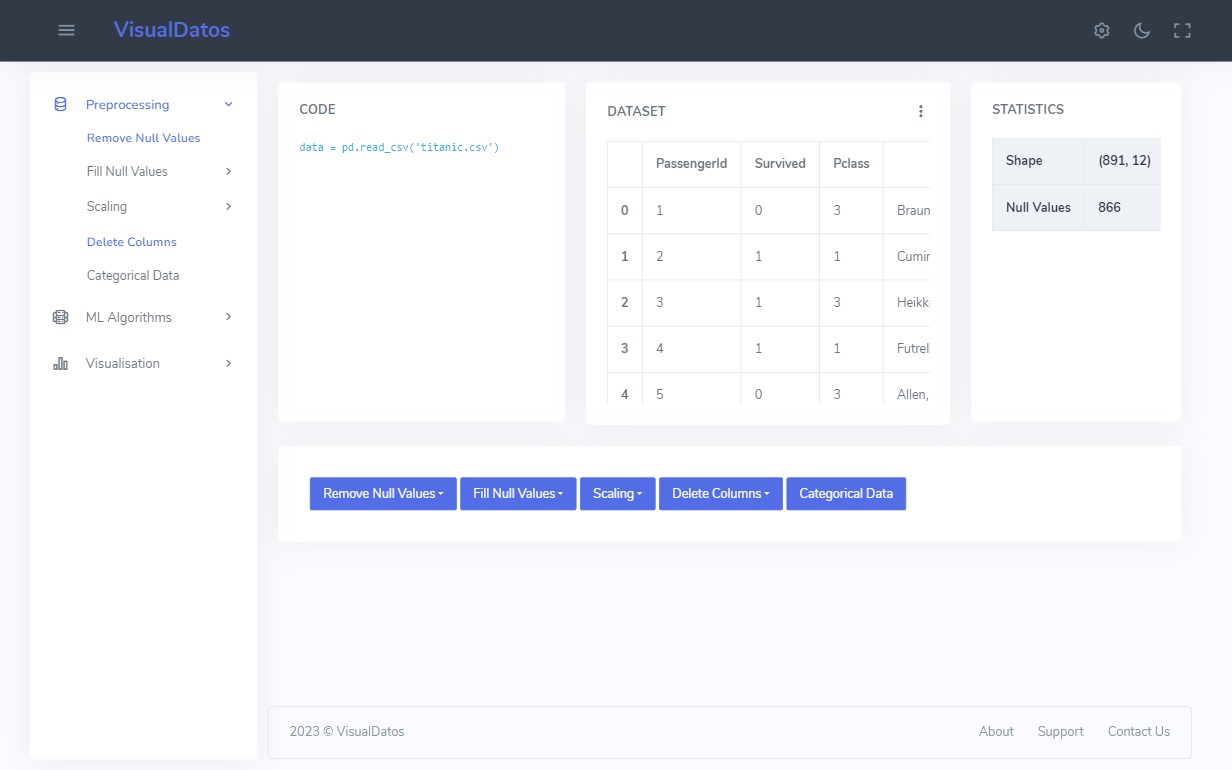
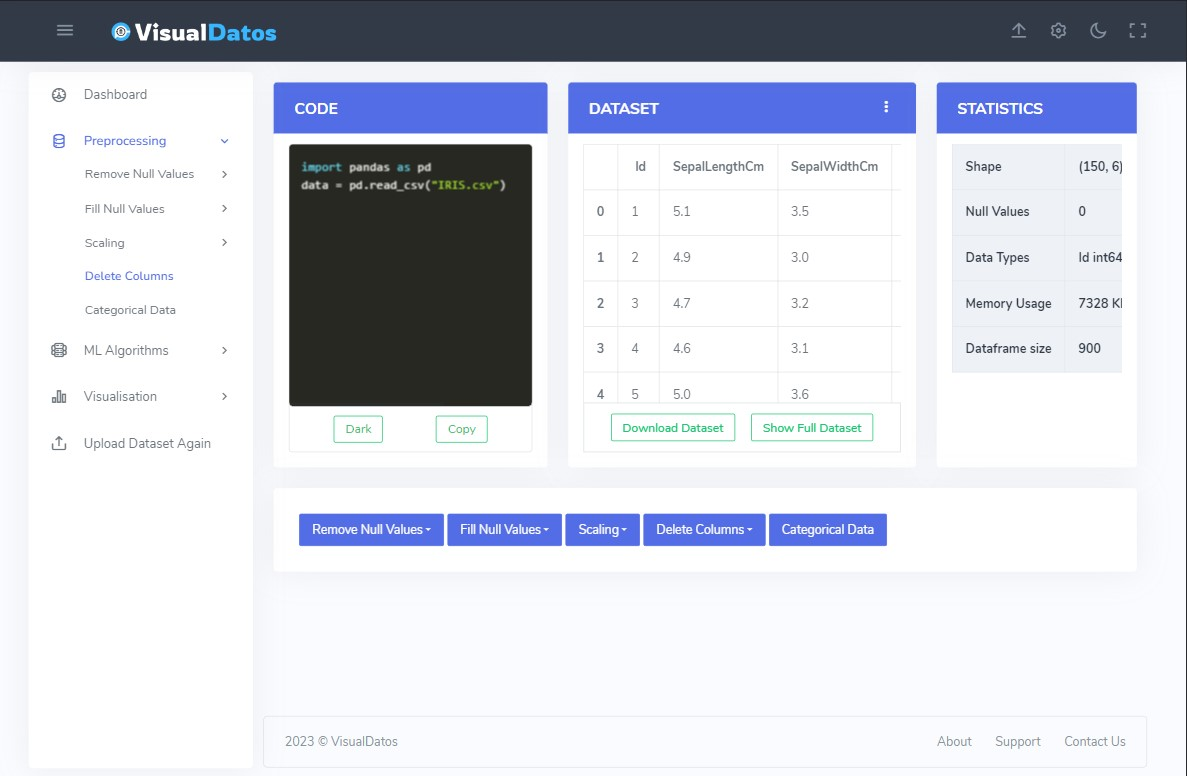
fixed copy button bug

diff --git a/VData/templates/base.html b/VData/templates/base.html
@@ -20,7 +20,7 @@
 
 
         <!-- Theme Config Js -->
-        <script src="{% static 'assets/js/hyper-config.js' %}"></script>
+        <script src="{% static 'assets/js/config.js' %}"></script>
 
         
 
@@ -29,6 +29,7 @@
 
         <!-- Icons css -->
         <link href="{% static 'assets/css/icons.min.css' %}" rel="stylesheet" type="text/css" />
+        <!-- <link href="{% static 'css/cursor.css' %}" rel="stylesheet" type="text/css" /> -->
 
 
         <!-- code highlight css -->
@@ -50,6 +51,12 @@
             </div>
         </div>
         <!-- End Preloader-->
+         <!--  Cursor -->
+  {% comment %} <div class="cursor-dot-outline">
+</div>
+<div class="cursor-dot">
+</div> {% endcomment %}
+<!-- Cursor ends -->
 
 
         <!-- Begin page -->
@@ -348,7 +355,7 @@
                                 <!-- Personal-Information -->
                                 <div class="card">
                                     <div class="d-flex card-header justify-content-between align-items-center mb-2" style="background-color: #536de6;
-                                    color: white;
+                                    color: white; padding-top:12px; padding-bottom:12px;
                                 ">
                                         <h4 class="text-bold mb-1">
                                             CODE
@@ -362,8 +369,7 @@
                                                 <!-- <button class="btn-copy-clipboard" data-clipboard-action="copy">
                                                     Copy
                                                 </button> -->
-                                                <pre class="mb-0 html escape" style="height: 304px; border-bottom: 1px solid var(--ct-gray-300);">
-<code class="language-python">{{file_content | safe}}</code>
+                                                <pre class="mb-0 html escape" style="height: 304px; border-bottom: 1px solid var(--ct-gray-300);"><code class="language-python">{{file_content | safe}}</code>
                                                     </pre>
     
                                                 <!-- end highlight-->
@@ -391,7 +397,6 @@
                                         <!-- end tab-content-->
                                     </div>
                                 </div>  
-                                <!-- Personal-Information -->
 
                              
 
@@ -404,7 +409,7 @@
                         <div class="col-lg-5">
                             <div class="card">
                                 <div class="d-flex card-header justify-content-between align-items-center mb-2" style="background-color: #536de6;
-                                color: white;
+                                color: white; padding-top:12px; padding-bottom:12px;
                             ">
                                     <h4 class="text-bold mb-1">
                                         DATASET
@@ -440,7 +445,7 @@
                         <div class="col-lg-3">
                             <div class="card">
                                 <div class="d-flex card-header justify-content-between align-items-center mb-2" style="background-color: #536de6;
-                                color: white;
+                                color: white; padding-top:12px; padding-bottom:12px;
                             ">
                                     <h4 class="text-bold mb-1">
                                         STATISTICS
@@ -1115,6 +1120,13 @@
         <!-- App js -->
         <script src="{% static 'assets/js/app.min.js' %}"></script>
 
+        <!-- Code Highlight js -->
+        <script src="{% static 'assets/vendor/clipboard/clipboard.min.js' %}"></script>
+        <script src="{% static 'assets/js/syntax.js' %}"></script>
+
+
+        <!-- <script src="{% static 'js/cursor.js' %}"></script> -->
+
 
 
         <script>
@@ -1212,7 +1224,8 @@
                 setTheme(storedTheme);
             }
         </script>
-
+        {% block script %}        
+        {% endblock script %}        
 
 
     </body>

diff --git a/VData/templates/landing.html b/VData/templates/landing.html
@@ -70,7 +70,7 @@
 						</div><!-- .col -->
 						<div class="col-md-6">
 							<div class="header-laptop-mockup wow fadeInUp" data-wow-duration="1s" data-wow-delay=".6s" >
-								<img src="{% static 'images/software-screen-a1.jpg' %}" alt="software-screen" />
+								<img src="{% static 'images/software-screen-a11.jpg' %}" alt="software-screen" />
 							</div>
 						</div>
 					</div><!-- .row -->
@@ -157,7 +157,7 @@
 						</div><!-- .col -->
 						<div class="col-md-5 pt-100 text-center">
 							<div class="fearures-software-mockup wow fadeInLeft" data-wow-duration=".5s">
-								<img src="{% static 'images/software-screen-b1.jpg' %}" alt="software-screen" />
+								<img src="{% static 'images/software-screen-b12.jpg' %}" alt="software-screen" />
 							</div>
 						</div><!-- .col -->
 					</div><!-- .row -->
@@ -181,10 +181,10 @@
 					<div class="col-md-10 col-md-offset-1">
 						<div class="tab-fix">
 							<div class="has-carousel software-screens owl-carousel owl-theme"  data-items="1" data-loop="true" data-auto="true" data-dots="false" data-navs="true">
-								<div class="item"><img src="{% static 'images/software-screen-a1.jpg' %}" alt="software-screen" /></div>
-								<div class="item"><img src="{% static 'images/software-screen-b1.jpg' %}" alt="software-screen" /></div>
-								<div class="item"><img src="{% static 'images/software-screen-c1.jpg' %}" alt="software-screen" /></div>
-								<div class="item"><img src="{% static 'images/software-screen-d1.jpg' %}" alt="software-screen" /></div>
+								<div class="item"><img src="{% static 'images/software-screen-a11.jpg' %}" alt="software-screen" /></div>
+								<div class="item"><img src="{% static 'images/software-screen-b12.jpg' %}" alt="software-screen" /></div>
+								<div class="item"><img src="{% static 'images/software-screen-c12.jpg' %}" alt="software-screen" /></div>
+								<div class="item"><img src="{% static 'images/software-screen-d12.jpg' %}" alt="software-screen" /></div>
 							</div>
 						</div><!-- .tab-fix -->
 					</div><!-- .col -->
@@ -236,7 +236,7 @@
 					<div class="col-md-7 col-sm-12 col-md-offset-0 text-center">
 						<div class="tab-content no-pd steps-screen">
 							<div class="tab-pane fade in active" id="tab1">
-								<img src="{% static 'images/software-screen-a2.jpg' %}" alt="step-screen">
+								<img src="{% static 'images/software-screen-b12.jpg' %}" alt="step-screen">
 							</div>
 							<div class="tab-pane fade" id="tab2">
 								<img src="{% static 'images/software-screen-b2.jpg' %}" alt="step-screen">
@@ -349,7 +349,7 @@
 							</div>
 							<div class="team-info">
 								<h4 class="name">Manav Bhangale</h4>
-								<p class="sub-title">Fornt-End Developer</p>
+								<p class="sub-title">Front-End Developer</p>
 							</div>
 							<!-- Start .team-profile  -->
 							<div id="team-profile-2" class="team-profile mfp-hide">

diff --git a/VData/static/assets/js/config.js b/VData/static/assets/js/config.js
@@ -1,0 +1,34 @@
+! function () {
+    var t = sessionStorage.getItem("__HYPER_CONFIG__"),
+        e = document.getElementsByTagName("html")[0],
+        i = {
+            theme: "light",
+            nav: "vertical",
+            layout: {
+                mode: "fluid",
+                position: "fixed"
+            },
+            topbar: {
+                color: "light"
+            },
+            menu: {
+                color: "dark"
+            },
+            sidenav: {
+                size: "default",
+                user: !1
+            }
+        },
+        o = (this.html = document.getElementsByTagName("html")[0], config = Object.assign(JSON.parse(JSON.stringify(i)), {}), this.html.getAttribute("data-theme")),
+        o = (config.theme = null !== o ? o : i.theme, this.html.getAttribute("data-layout")),
+        o = (config.nav = null !== o ? "topnav" === o ? "horizontal" : "vertical" : i.nav, this.html.getAttribute("data-layout-mode")),
+        o = (config.layout.mode = null !== o ? o : i.layout.mode, this.html.getAttribute("data-layout-position")),
+        o = (config.layout.position = null !== o ? o : i.layout.position, this.html.getAttribute("data-topbar-color")),
+        o = (config.topbar.color = null != o ? o : i.topbar.color, this.html.getAttribute("data-sidenav-size")),
+        o = (config.sidenav.size = null !== o ? o : i.sidenav.size, this.html.getAttribute("data-sidenav-user")),
+        o = (config.sidenav.user = null !== o || i.sidenav.user, this.html.getAttribute("data-menu-color"));
+    if (config.menu.color = null !== o ? o : i.menu.color, window.defaultConfig = JSON.parse(JSON.stringify(config)), null !== t && (config = JSON.parse(t)), window.config = config, "topnav" === e.getAttribute("data-layout") ? config.nav = "horizontal" : config.nav = "vertical", config && (e.setAttribute("data-theme", config.theme), e.setAttribute("data-layout-mode", config.layout.mode), e.setAttribute("data-menu-color", config.menu.color), e.setAttribute("data-topbar-color", config.topbar.color), e.setAttribute("data-layout-position", config.layout.position), "vertical" == config.nav)) {
+        let t = config.sidenav.size;
+        window.innerWidth <= 767 ? t = "full" : 767 <= window.innerWidth && window.innerWidth <= 1140 && "full" !== self.config.sidenav.size && "fullscreen" !== self.config.sidenav.size && (t = "condensed"), e.setAttribute("data-sidenav-size", t), config.sidenav.user && "true" === config.sidenav.user.toString() ? e.setAttribute("data-sidenav-user", !0) : e.removeAttribute("data-sidenav-user")
+    }
+}();

diff --git a/VData/templates/results.html b/VData/templates/results.html
@@ -13,7 +13,7 @@
                     <!-- Personal-Information -->
                     <div class="card">
                         <div class="d-flex card-header justify-content-between align-items-center" style="background-color: #536de6;
-                        color: white;
+                        color: white; padding-top:12px; padding-bottom:12px;
                     ">
                             <h4 class="text-bold">
                                 CODE
@@ -71,7 +71,7 @@
             <div class="col-lg-7 col-md-12 col-sm-12">
                 <div class="card">
                     <div class="d-flex card-header justify-content-between align-items-center mb-2" style="background-color: #536de6;
-                    color: white;
+                    color: white; padding-top:12px; padding-bottom:12px;
                 ">
                         <h4 class="text-bold">VISUALISATION PLOTS</h4>
                     </div>
@@ -89,7 +89,7 @@
             <div class="col-lg-6">
                 <div class="card">
                     <div class="d-flex card-header justify-content-between align-items-center" style="background-color: #536de6;
-                    color: white;
+                    color: white; padding-top:12px; padding-bottom:12px;
                 ">
                         <h4 class="text-bold">CONFUSION MATRIX</h4>
                     </div>
@@ -110,7 +110,7 @@
             <div class="col-lg-6">
                 <div class="card">
                     <div class="d-flex card-header justify-content-between align-items-center" style="background-color: #536de6;
-                    color: white;
+                    color: white; padding-top:12px; padding-bottom:12px;
                 ">
                         <h4 class="text-bold">ELBOW PLOT</h4>
                     </div>
@@ -130,7 +130,7 @@
             <div class="col-lg-6">
                 <div class="card">
                     <div class="d-flex card-header justify-content-between align-items-center" style="background-color: #536de6;
-                    color: white;
+                    color: white; padding-top:12px; padding-bottom:12px;
                 ">
                         <h4 class="text-bold">STATISTICS</h4>
                     </div>

diff --git a/VData/templates/visualization_output.html b/VData/templates/visualization_output.html
@@ -9,7 +9,7 @@
             <div class="col-lg-8">
                 <div class="card">
                     <div class="d-flex card-header justify-content-between align-items-center" style="background-color: #536de6;
-                    color: white;
+                    color: white; padding-top:12px; padding-bottom:12px;
                 ">
                         <h4 class="text-bold">VISUALISATION PLOTS</h4>
                     </div>
@@ -24,7 +24,7 @@
             <div class="col-lg-4">
                 <div class="card">
                     <div class="d-flex card-header justify-content-between align-items-center mb-2" style="background-color: #536de6;
-                    color: white;
+                    color: white; padding-top:12px; padding-bottom:12px;
                 ">
                         <h4 class="text-bold">CODE</h4>
                     </div>
@@ -34,9 +34,8 @@
                                 <!-- <button class="btn-copy-clipboard" data-clipboard-action="copy">
                                     Copy
                                 </button> -->
-                                <pre class="mb-0" style="height: 385px; border-bottom: 1px solid var(--ct-gray-300);"><code class="html escape language-python">
-{{file_content | safe}}
-</code>
+                                <pre class="mb-0" style="height: 385px; border-bottom: 1px solid var(--ct-gray-300);">
+<code class="html escape language-python">{{file_content | safe}}</code>
                                     </pre>
 
                                 <!-- end highlight-->

diff --git a/VData/templates/kmeans.html b/VData/templates/kmeans.html
@@ -20,7 +20,7 @@
                   <div class="row" data-select2-id="select2-data-8-1vyy">
 
                       <div class="col-lg-6 mb-3" data-select2-id="columns">
-                          <p class="mb-1 fw-bold text-muted">X :</p>
+                          <p class="mb-1 fw-bold text-muted">X (Select at least two):</p>
                           <!-- Multiple Select -->
                           <select class="js-select2 form-control select2-multiple" data-toggle="select2" multiple="multiple" data-placeholder="Choose Columns" id="my-select" name="value-x" >
                               {% for col in columns %}
@@ -45,3 +45,20 @@
 </div>
 
 {% endblock operation %}
+{% block script %}
+
+<!-- <script>var selectElement = document.getElementById('my-select');
+    
+selectElement.addEventListener('change', function () {
+    var selectedOptions = this.selectedOptions;
+    
+    if (selectedOptions.length < 2) {
+        // Display an error message or take any other desired action
+        alert('Please select at least two options.');
+        
+        // You can clear the selection if desired
+        // this.value = '';
+    }
+});</script> -->
+
+{% endblock script %}

diff --git a/VData/static/assets/js/syntax.js b/VData/static/assets/js/syntax.js
@@ -1,0 +1,24 @@
+var clipboard;
+! function () {
+    "use strict";
+    jQuery(document).ready(function () {
+        document.querySelectorAll("pre span.escape").forEach(function (e, n) {
+            e.classList.contains("escape");
+            for (var r = 1 / 0, t = e.innerText.replace(/^\n/, "").trimRight().split("\n"), c = 0; c < t.length; c++) t[c].trim() && (r = Math.min(t[c].search(/\S/), r));
+            for (var i = [], c = 0; c < t.length; c++) i.push(t[c].replace(new RegExp("^ {" + r + "}", "g"), ""));
+            e.innerText = i.join("\n")
+        }), document.querySelectorAll("pre span.escape").forEach(function (e) {
+            hljs.highlightBlock(e)
+        })
+    })
+}(), window.ClipboardJS && (clipboard = new ClipboardJS(".btn-copy-clipboard", {
+    target: function (e) {
+        e = e.closest(".tab-pane.active");
+        return el = e.querySelector(".html.escape")
+    }
+})).on("success", function (e) {
+    var n = e.trigger.innerHTML;
+    e.trigger.innerHTML = "Copied", setTimeout(function () {
+        e.trigger.innerHTML = n
+    }, 3e3), e.clearSelection()
+});

diff --git a/VData/templates/ml_error_msg.html b/VData/templates/ml_error_msg.html
@@ -1,10 +1,9 @@
 {% if messages %}
   {% for message in messages %}
-    <div class="alert alert-dismissible alert-danger">
-      <button type="button" class="close" data-dismiss="alert">
-      ×
-      </button>
-      <strong>{{message}}</strong>
-    </div>
+  <div class="alert alert-danger alert-dismissible fade show" role="alert">
+    <strong>{{message}}</strong>
+    <button type="button" class="btn-close" data-bs-dismiss="alert" aria-label="Close"></button>
+  </div>
+  
  {% endfor %}
 {% endif %}
